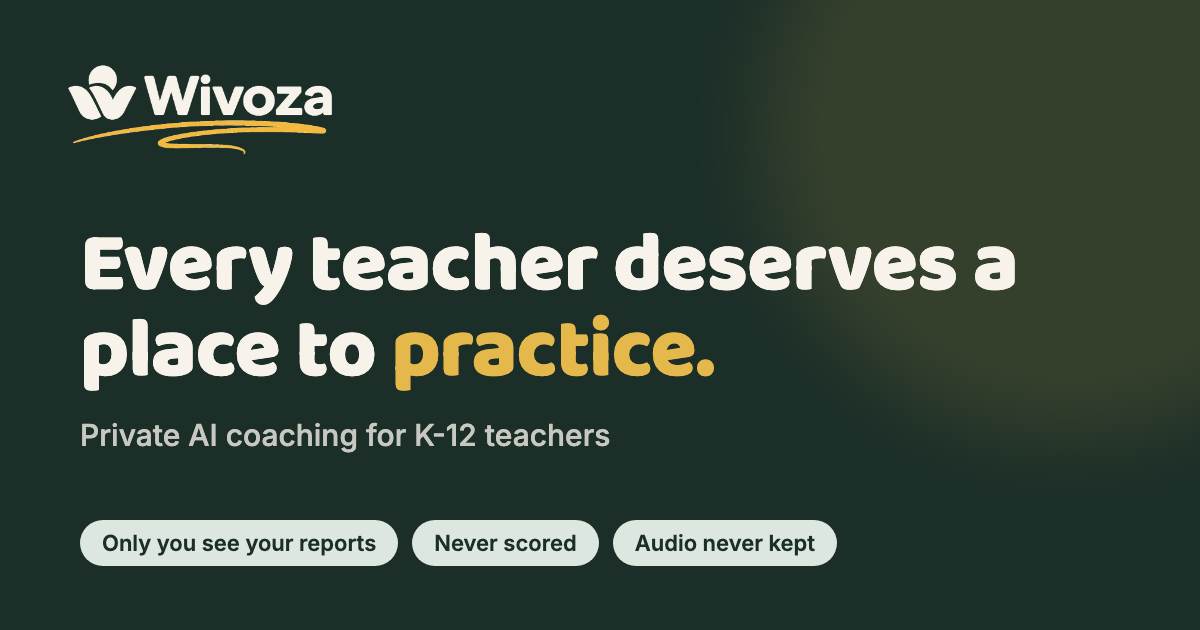
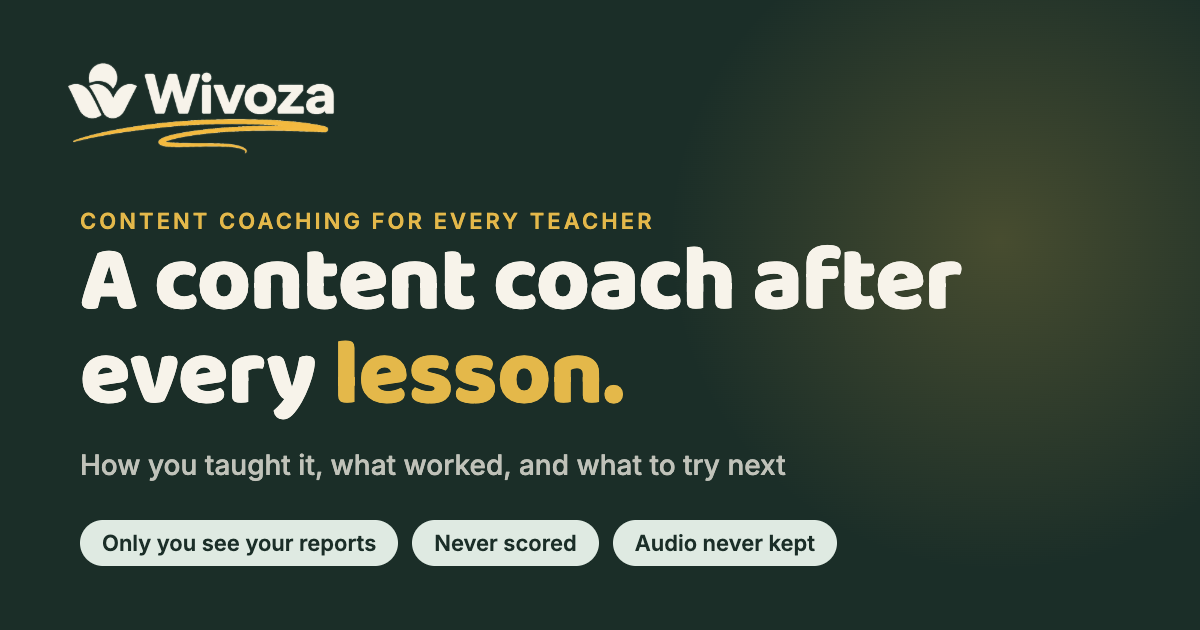
Share card: a content coach after every lesson
The image a shared wivoza.com link shows now carries the new headline,
and its source is kept in web/scripts/og-image.html so it can be redone.

Changed region(s): [[0.0617, 0.3317, 0.8633, 0.754], [0.0617, 0.1206, 0.2775, 0.2413]]

diff --git a/web/scripts/og-image.html b/web/scripts/og-image.html
@@ -1,0 +1,24 @@
+<!doctype html><html><head><meta charset="utf-8">
+<!-- The 1200x630 card a shared wivoza.com link shows (public/og-image.png). Regenerate:
+  "/Applications/Google Chrome.app/Contents/MacOS/Google Chrome" --headless=new --hide-scrollbars --window-size=1200,630 --virtual-time-budget=5000 --screenshot=public/og-image.png "file://$PWD/scripts/og-image.html"
+  (run from web/) -->
+<link href="https://fonts.googleapis.com/css2?family=Inter:wght@500;600&family=Baloo+2:wght@800&display=swap" rel="stylesheet">
+<style>
+html,body{margin:0;width:1200px;height:630px;overflow:hidden}
+body{background:#1b2e28;font-family:Inter,sans-serif;position:relative}
+.glow{position:absolute;right:-160px;top:-120px;width:720px;height:720px;border-radius:50%;background:radial-gradient(circle,rgba(228,184,74,.22),rgba(228,184,74,0) 65%)}
+.logo{position:absolute;left:66px;top:62px;width:270px}
+.eyebrow{position:absolute;left:80px;top:208px;color:#e4b84a;font-weight:600;font-size:22px;letter-spacing:.14em;text-transform:uppercase}
+h1{position:absolute;left:80px;top:236px;margin:0;width:1040px;font-family:'Baloo 2',sans-serif;font-weight:800;font-size:92px;line-height:1.02;color:#f7f3ea;letter-spacing:-.01em}
+h1 span{color:#e4b84a}
+.sub{position:absolute;left:80px;top:448px;color:rgba(247,243,234,.75);font-size:28px;font-weight:500}
+.chips{position:absolute;left:80px;top:520px;display:flex;gap:14px}
+.chips span{background:#dfeae2;color:#1b2e28;font-weight:600;font-size:22px;padding:10px 22px;border-radius:999px}
+</style></head><body>
+<div class="glow"></div>
+<img class="logo" src="../public/logo/wivoza-lockup-dark.png">
+<div class="eyebrow">Content coaching for every teacher</div>
+<h1>A content coach after<br>every <span>lesson.</span></h1>
+<div class="sub">How you taught it, what worked, and what to try next</div>
+<div class="chips"><span>Only you see your reports</span><span>Never scored</span><span>Audio never kept</span></div>
+</body></html>
